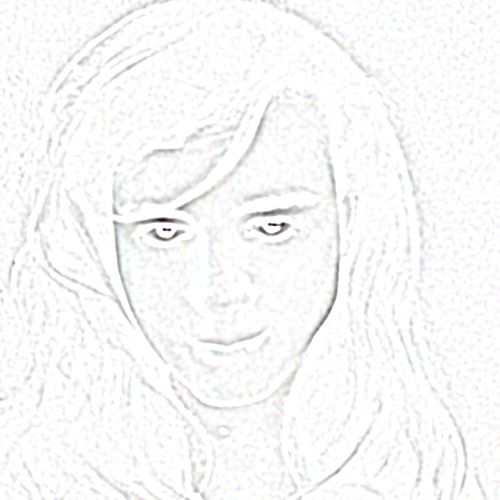
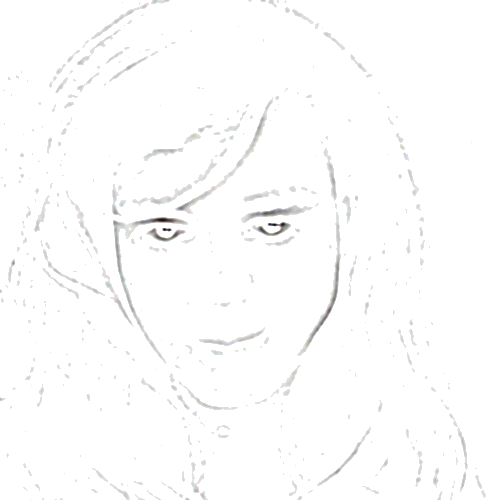
less of me

Changed region(s): [[0.54, 0.78, 0.57, 0.81], [0.36, 0.69, 0.39, 0.72], [0.27, 0.39, 0.3, 0.42]]

diff --git a/layouts/partials/sidebar.html b/layouts/partials/sidebar.html
@@ -1,7 +1,7 @@
 <div class="sidebar pure-u-1 pure-u-md-1-4">
     <div class="header">
         <hgroup>
-			<img src="/assets/pics/me.jpg" width="80%">
+			<img src="/assets/pics/me2.png" width="80%">
             <h1 class="brand-title"><a href="{{ .Site.BaseURL }}">{{ .Site.Title }}</a></h1>
             <h2 class="brand-tagline">{{ with .Site.Params.description }} {{.}} {{end}}</h2>
         </hgroup>
